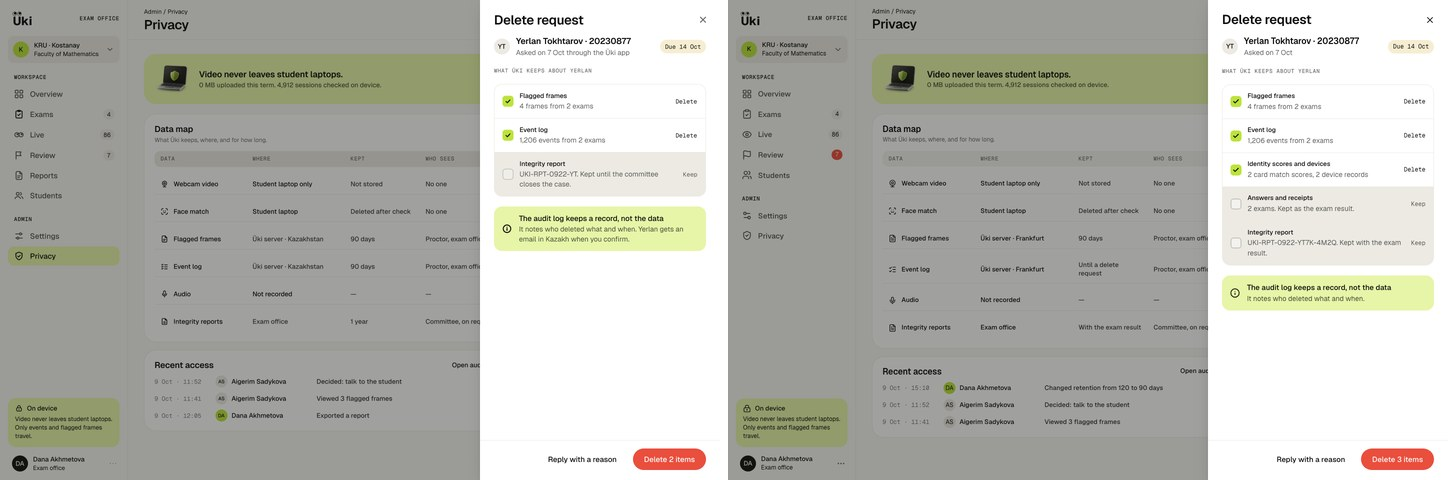
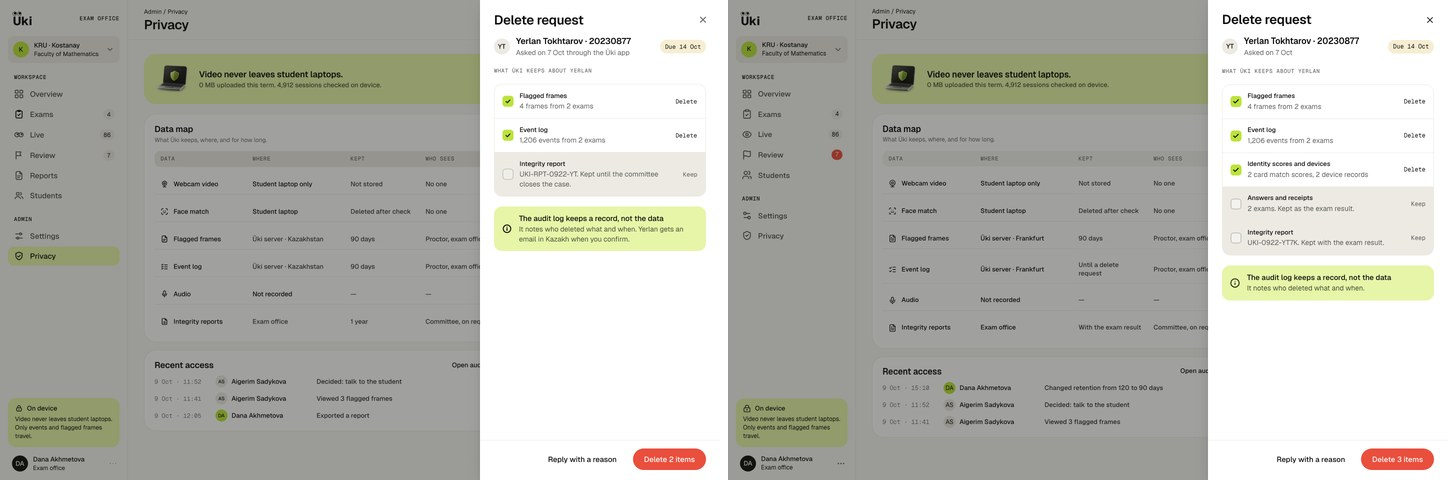
docs: 1.12 after the rebase onto 1.9's revoke: the migration's name, the revoke row and new screenshots

Changed region(s): [[0.8391, 0.5, 0.9945, 0.6562]]

diff --git a/docs/phase-1-exit.md b/docs/phase-1-exit.md
@@ -421,7 +421,7 @@ Branch `wp/1.10-reports` (PR #25). A.1 at `/reports` for the exam office, from W
 
 ## 1.12 Privacy
 
-Branch `wp/1.12-privacy` (PR #26). New: `20261012120000_privacy_requests.sql` (the 7-day due date and the five functions the `data-request` function calls with the secret key), the `data-request` and `retention` Edge Functions (both `verify_jwt = false`), A.5 with A.5a and A.5b at `/privacy-centre`, A.6 at `/privacy-centre/audit-log`, the Privacy sidebar item, 0.1b's "Open privacy centre" and A.3's Delete on request and Export data. WP 1.1 had already made `data_requests`, the `exports` bucket, `retention_due` and `retention_nightly`. From 9 October the MacBook runs nothing that needs a database: pgTAP, the integration tests and the dashboard e2e ran in GitHub Actions on the pull request, and locally only Biome, the guards, the type checks, the unit tests and the screenshots below. The Figma comparisons put the frame on the left and the page on the right, both at 1440 × 960, scaled to half; the page is the development-only `/gallery/privacy` (`?frame=a5|a5a|a5b|a6`, a 404 in production), which renders the real views inside the shell with the component tests' fixture rows, written after the frames, so names and numbers match. There the sidebar has no active item, because the shell marks the item of the address, and Next.js's development indicator is hidden. Choices are logged in `docs/decisions.md` under "1.12 Privacy".
+Branch `wp/1.12-privacy` (PR #26). New: `20261012190000_privacy_requests.sql` (the 7-day due date and the five functions the `data-request` function calls with the secret key), the `data-request` and `retention` Edge Functions (both `verify_jwt = false`), A.5 with A.5a and A.5b at `/privacy-centre`, A.6 at `/privacy-centre/audit-log`, the Privacy sidebar item, 0.1b's "Open privacy centre" and A.3's Delete on request and Export data. WP 1.1 had already made `data_requests`, the `exports` bucket, `retention_due` and `retention_nightly`. From 9 October the MacBook runs nothing that needs a database: pgTAP, the integration tests and the dashboard e2e ran in GitHub Actions on the pull request, and locally only Biome, the guards, the type checks, the unit tests and the screenshots below. The Figma comparisons put the frame on the left and the page on the right, both at 1440 × 960, scaled to half; the page is the development-only `/gallery/privacy` (`?frame=a5|a5a|a5b|a6`, a 404 in production), which renders the real views inside the shell with the component tests' fixture rows, written after the frames, so names and numbers match. There the sidebar has no active item, because the shell marks the item of the address, and Next.js's development indicator is hidden. Choices are logged in `docs/decisions.md` under "1.12 Privacy".
 
 | Check | Status | Evidence | Date |
 | --- | --- | --- | --- |
@@ -433,11 +433,11 @@ Branch `wp/1.12-privacy` (PR #26). New: `20261012120000_privacy_requests.sql` (t
 | The exam office only | pass | Integration: no token 401, a proctor and a student 403, an unknown request 404. `17_privacy_requests` (pgTAP, CI): staff and anonymous users cannot execute the five functions; a proctor and another workspace's exam office are refused as the actor, an admin is allowed. `privacy-pages.test.tsx`: a proctor gets a 404 on both pages and nothing is read; a failed staff lookup shows the error; the two server actions refuse a proctor and input that does not parse before they touch the database | 2026-10-09 |
 | Every read writes its audit row | pass | `privacy-data.test.ts`, 7 tests: `privacy_centre.read`, `data_request.read` with the student's id and `audit.read` are written before each read, and a failed write fails the page with nothing read; a request the caller may not see writes nothing. The e2e finds Dana's `privacy_centre.read` and `data_request.read` rows. A.6's Export CSV writes `audit.export` first (`privacy-views.test.tsx`, `privacy-pages.test.tsx`) | 2026-10-09 |
 | pgTAP | pass (CI) | New `17_privacy_requests`: the 7-day default, the delete plan's folders and paths, the delete's counts, what stays (session, answers, receipt, decision, report), the live-exam refusal, the copy package, `privacy_export_done`'s path check, the reply, the audit rows and the grants. `13_privacy` now expects 7 days. CI run 37832769014: 17 files, 836 tests, PASS | 2026-10-09 |
-| Unit and component tests | pass | web 512 tests, 51 of them new: `privacy-model` 15, `privacy-data` 7, `privacy-views` 16, `privacy-russian` 5, `privacy-pages` 8; `shell-model` and `students-view` changed for the flag and A.3's links; contracts 459 (`privacy.test.ts` adds the WP 1.12 shapes); functions-unit 115 (`copy-file` 4, `runs` 3, the import maps of both functions) | 2026-10-09 |
+| Unit and component tests | pass | web 520 tests after the rebase, 51 of them new: `privacy-model` 15, `privacy-data` 7, `privacy-views` 16, `privacy-russian` 5, `privacy-pages` 8; `shell-model` and `students-view` changed for the flag and A.3's links; contracts 464 (`privacy.test.ts` adds the WP 1.12 shapes); functions-unit 115 (`copy-file` 4, `runs` 3, the import maps of both functions) | 2026-10-09 |
 | A.5, A.5a, A.5b, A.6 and 0.1b in Russian with no missing key | pass | `apps/web/test/privacy-russian.test.tsx`: each page in `ru`, no next-intl error (`intlErrors`) and no raw `dashboard.*` key; 0.1b's «Открыть центр конфиденциальности» leads to `/privacy-centre`. The e2e also opens A.5a and A.5b with the `uki_locale` cookie set to `ru` | 2026-10-09 |
-| `pnpm check` | pass | Exit 0 on the MacBook after the rebase onto main at e86a4dc: Biome 1021 files, guards 1056 files, turbo 22/22 tasks (web 512, contracts 459, desktop 451, ui 188, lock 173, detection 102, i18n 72, tokens 30, lms-mock 8, db 6), functions-unit 115, scripts 103 | 2026-10-09 |
-| `pnpm i18n:build` | pass | 270 catalog keys and 1465 dashboard keys in en and ru; `dashboard-privacy.json` adds 194 | 2026-10-09 |
-| CI on the pull request | pass | Runs 37832762687 and 37832769014 at ce803fe (rebased onto main at ce12ed0): every job passed, Linux checks, the stack job (pgTAP, integration with `data-request` and `retention`, the desktop flow, the dashboard e2e with `privacy.spec.ts`, 41 tests) and demo scripts, the builds, the macOS installers, Windows and the secret scan. The run at the merged head, after the rebase onto e86a4dc, is on the PR and was green before the merge | 2026-10-09 |
+| `pnpm check` | pass | Exit 0 on the MacBook after the rebase onto main at 84c590f (WP 1.9's revoke): Biome 1021 files, guards 1058 files, turbo 22/22 tasks (web 520, contracts 464, desktop 451, ui 190, lock 173, detection 102, i18n 72, tokens 30, lms-mock 8, db 6), functions-unit 115, scripts 103 | 2026-10-09 |
+| `pnpm i18n:build` | pass | 270 catalog keys and 1473 dashboard keys in en and ru after the rebase onto WP 1.9's revoke; `dashboard-privacy.json` adds 195 | 2026-10-09 |
+| CI on the pull request | pass | Runs 37832762687 and 37832769014 at ce803fe (rebased onto main at ce12ed0): every job passed, Linux checks, the stack job (pgTAP, integration with `data-request` and `retention`, the desktop flow, the dashboard e2e with `privacy.spec.ts`, 41 tests) and demo scripts, the builds, the macOS installers, Windows and the secret scan. The run at the merged head, after the rebases onto e86a4dc and 84c590f, is on the PR and was green before the merge | 2026-10-09 |
 | Sidebar flag | pass | `NAV.privacy.built` is on for the exam office and admins; a proctor's sidebar has no Privacy item (`shell-model.test.ts`) | 2026-10-09 |
 | 0.1b's link and A.3's buttons | pass | 0.1b shows "Open privacy centre" to `/privacy-centre` (`privacy-russian.test.tsx`); A.3's Delete on request and Export data open A.5a and A.5b for that student (`students-view.test.tsx`, and the e2e clicks both) | 2026-10-09 |
 | Phase 2 and 3 entry points hidden | pass | A.5's Processing record (PDF) (A.5c) and A.5b's Format choice are not drawn; the top bar's search and bell stay hidden, as on every page (`privacy-views.test.tsx`) | 2026-10-09 |

diff --git a/docs/decisions.md b/docs/decisions.md
@@ -1083,7 +1083,7 @@ Step 6 of the coordinator's VPS plan, the code side. The coordinator runs the Wi
 Choices WP 1.12 made for A.5 (107:11102), A.5a (165:14035), A.5b (165:16241), A.6 (108:11296), the `data-request` and `retention` Edge Functions, and where the frames and the plan disagree. The plan decides behaviour and Figma decides visuals.
 
 **Data requests**
-- **Due in 7 days, not 30.** A.5a and A.5b draw "asked 7 Oct, due 14 Oct" and "asked 9 Oct, due 16 Oct"; the plan calls its 30 days a starting value that a frame overrides. `20261012120000_privacy_requests.sql` sets the default of `data_requests.due_at` to `now() + 7 days`; existing rows keep their dates. `13_privacy` now expects 7 days.
+- **Due in 7 days, not 30.** A.5a and A.5b draw "asked 7 Oct, due 14 Oct" and "asked 9 Oct, due 16 Oct"; the plan calls its 30 days a starting value that a frame overrides. `20261012190000_privacy_requests.sql` sets the default of `data_requests.due_at` to `now() + 7 days`; existing rows keep their dates. `13_privacy` now expects 7 days.
 - **What Delete removes, checked against A.5a's list.** The plan's split stands: Delete removes the student's stills from Storage (every object in their sessions' `<exam_id>/<session_id>` folders, so a still uploaded but never confirmed goes too), then in one transaction their `frames` and `events` rows (help requests go with their event), `sessions.identity_score` and `sessions.device`. It keeps the answers, `receipt_id`, the sessions, the identity result (matched or not), the consent record (`rules_accepted_at`, `rules_locale`), review decisions and integrity reports, because they are the exam result or the record that the rules were accepted. A.5a draws three rows (Flagged frames, Event log, Integrity report kept "until the committee closes the case"); the list adds "Identity scores and devices" (Delete) and "Answers and receipts" (Keep), so everything the plan names is on it, and shows the Integrity report row (Keep, with its printed verify code) only when the student has a report. The button counts the Delete rows: "Delete 3 items". The report row stays, but its content is built from the session's flags, so a printout made before the delete no longer verifies as unchanged.
 - **The boxes show what happens and cannot be changed.** A.5a draws checkboxes, but the plan's Delete is one action with a fixed split, and A.5b's four rows are all included. The boxes are drawn checked for every Delete or Include row and unchecked at 40 % for every Keep row, without focus or clicks.
 - **Delete waits while the student writes a live exam.** The app would keep sending events and stills into what is being deleted. The function answers `conflict` (`in_exam`) and the drawer says "<name> is writing an exam now. Delete the data once it ends." A request runs once: a second Delete answers `conflict`.
@@ -1103,6 +1103,7 @@ Choices WP 1.12 made for A.5 (107:11102), A.5a (165:14035), A.5b (165:16241), A.
 
 **A.6 Audit log**
 - **Tabs and range.** All, Frames viewed (`still.viewed`), Exports (`data_request.copy`, `report.share`, `report.share_view`, `audit.export`), Settings (`settings.update`) and Deletions (`data_request.delete`, `retention.run`). The range menu offers the last 24 hours, 7 days (the frame's default), 30 days and 90 days. Tab and range are read on the server; the search runs in the browser on the who, action and object words, and all three stay in the address. At most the newest 500 rows of a range and tab are read; a line says so when there are more. 25 rows per page.
+- **Share revokes.** WP 1.9's `report.share_revoke`, merged while this package was open, reads "Revoked a share link" with the link icon and sits in the Exports tab with the shares and their views.
 - **One entry per row, except stills.** Each share view is its own line (plan). The stills function writes one row per still, all at the same instant; the stills one staff member opened at once for one session fold into one line, "Viewed 3 flagged frames", as the frame draws it.
 - **Who** is the staff member's name (lime avatar for the signed-in one), the student for rows a student's sign-in wrote, "Share link" for share views, and "System" with the Face for rows the secret key wrote (retention, the seed). The actions Üki wrote when this package was built have their own words and icon; an action added later shows its stored name until it gets a message.
 - **"Kept for 1 year." is left out of the footer:** nothing removes audit rows yet, so the page does not promise a period.
@@ -1115,8 +1116,11 @@ Choices WP 1.12 made for A.5 (107:11102), A.5a (165:14035), A.5b (165:16241), A.
 - **`retention` deletes stills only, oldest first.** `retention_due` picks up to 500 stills past their workspace's `retention_days` at a time; the function removes the objects from the frames bucket, then the `frames` rows, for at most 20 batches a run (the next night carries on). Storage goes first, so a failure in between leaves rows whose objects are gone, which the next run removes harmlessly. The flag events stay.
 - **"Audit row per run" is one row per workspace that lost stills:** `retention.run` with the count, the rule and the oldest and newest capture time, written as the system. A run that deletes nothing writes no row, because an audit row belongs to a workspace and A.6 would fill with empty runs. `retention` is `withSupabase({ auth: 'secret' })` with `verify_jwt = false`; WP 1.1's `retention_nightly` calls it at 22:00 UTC through `pg_net` with the key from Vault.
 
+**Migration name**
+- The migration was written as `20261012120000_privacy_requests.sql` and renamed before the merge to `20261012190000_privacy_requests.sql`, so it sorts after WP 1.9's `20261012160000_verify_codes_share_revoke.sql`, which landed meanwhile, and after WP 1.10's open `20261012180000_…`; `supabase db push` refuses a migration older than the newest applied one. It was never on main under the old name. Its pgTAP file stays `17_privacy_requests` (main has 16 and 19).
+
 **Sidebar and links**
 - `NAV.privacy.built` is on, for the exam office and admins; a proctor's sidebar has no Privacy item and both pages give a proctor a 404. 0.1b's "Open privacy centre" (left out by 1.2 until this page existed) and A.3's two buttons now show.
 
 **Strings**
-- 194 keys in `packages/i18n/dashboard-privacy.json` (`dashboard.privacy.*`), English from the frames where they have it, first-pass Russian for P.18. Added, not in Figma: the Data map's two new periods, the delete list's identity, answers and reports rows, the copy and reply states, the errors, the range choices, the who and object words, the action names Figma does not draw, paging, and the empty and truncated lines.
+- 195 keys in `packages/i18n/dashboard-privacy.json` (`dashboard.privacy.*`), English from the frames where they have it, first-pass Russian for P.18. Added, not in Figma: the Data map's two new periods, the delete list's identity, answers and reports rows, the copy and reply states, the errors, the range choices, the who and object words, the action names Figma does not draw, paging, and the empty and truncated lines.
